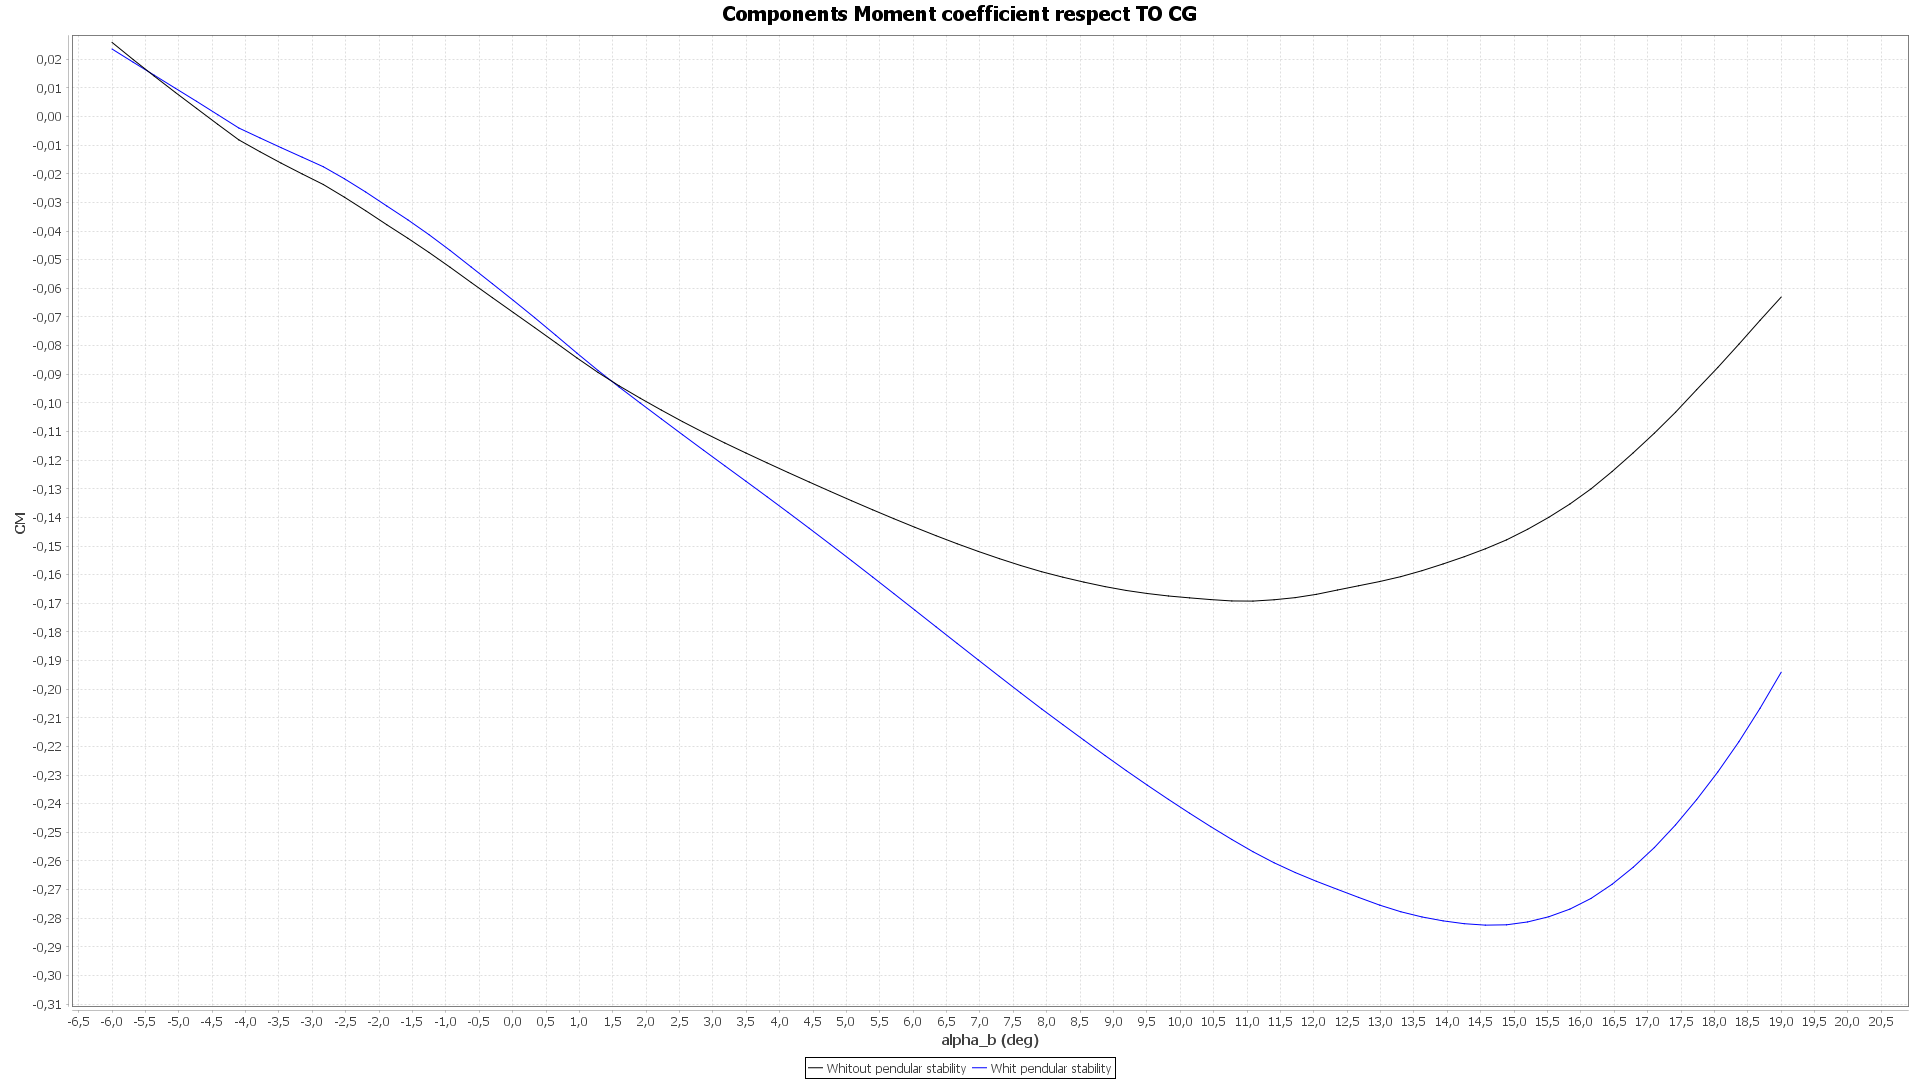
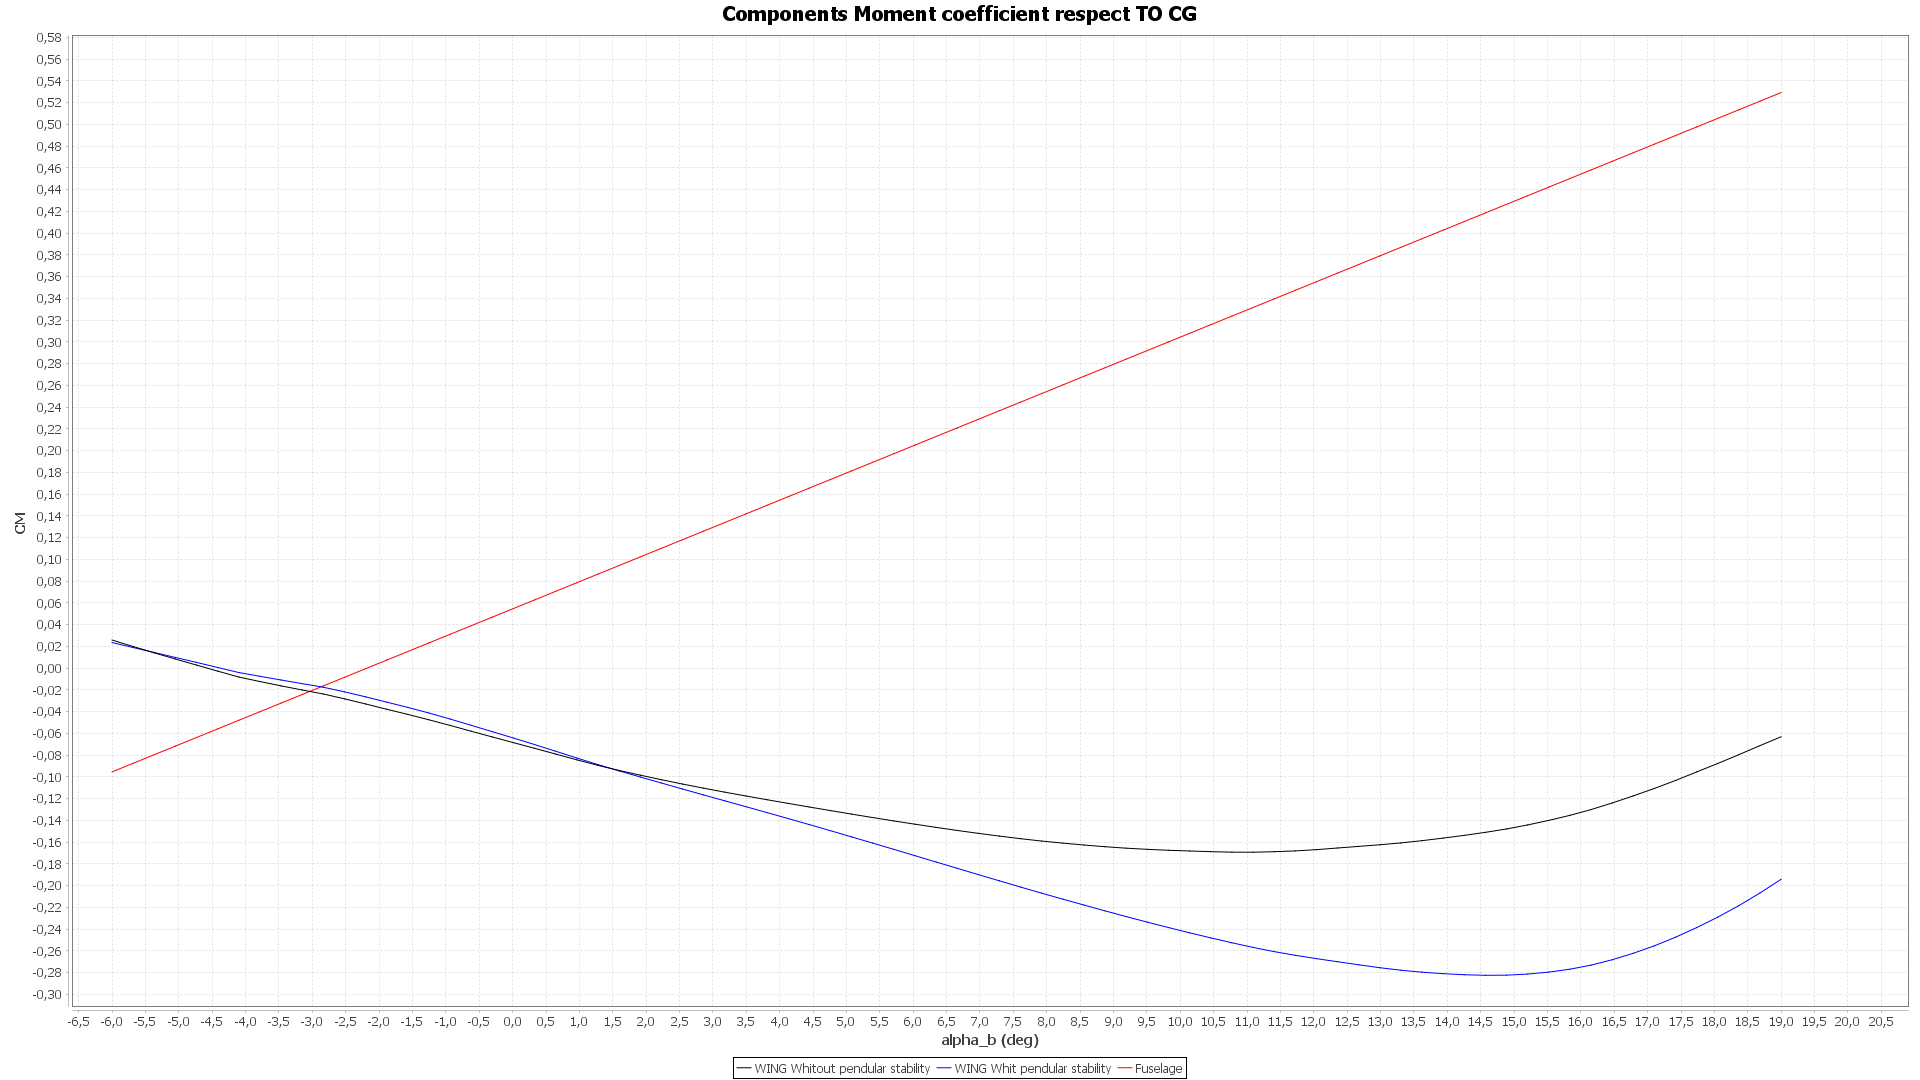
More work on Stability Executable.

diff --git a/JPADSandBox_v2/src/sandbox2/mr/StabilityExecutableManager.java b/JPADSandBox_v2/src/sandbox2/mr/StabilityExecutableManager.java
@@ -2511,11 +2511,13 @@ public class StabilityExecutableManager {
 			
 			xList.add(MyArrayUtils.convertListOfAmountToDoubleArray(_alphasBody));
 			xList.add(MyArrayUtils.convertListOfAmountToDoubleArray(_alphasBody));
+			xList.add(MyArrayUtils.convertListOfAmountToDoubleArray(_alphasBody));
 			yList.add(MyArrayUtils.convertListOfDoubleToDoubleArray(_wingMomentCoefficientPendular));
 			yList.add(MyArrayUtils.convertListOfDoubleToDoubleArray(_wingMomentCoefficientNOPendular));
-			legend.add("Whitout pendular stability");
-			legend.add("Whit pendular stability");
-			
+			yList.add(MyArrayUtils.convertListOfDoubleToDoubleArray(_fuselageMomentCoefficient));
+			legend.add("WING Whitout pendular stability");
+			legend.add("WING Whit pendular stability");
+			legend.add("Fuselage");
 			
 			MyChartToFileUtils.plot(
 					xList, 
